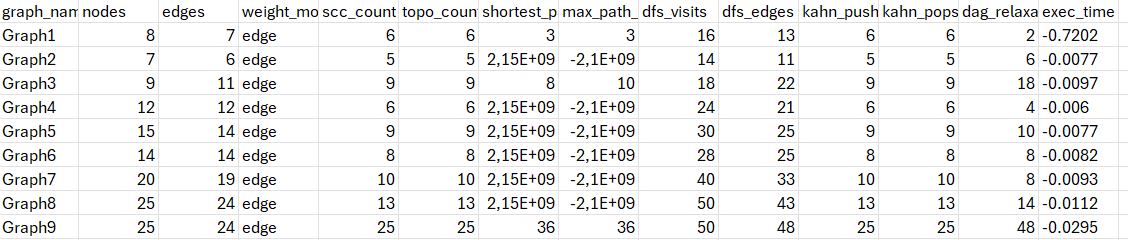
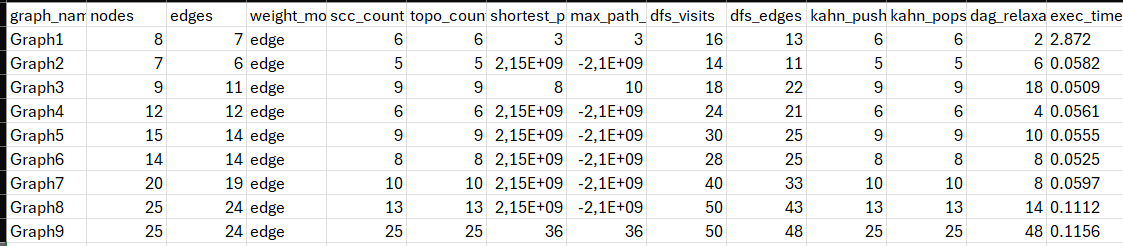
upd

diff --git a/src/main/java/com/example/Reader.java b/src/main/java/com/example/Reader.java
@@ -20,19 +20,21 @@ public class Reader {
 
             List<Graph> graphs = cont.getGraphs();
             List<GraphResult> results = new ArrayList<>();
+            List<Metrics> metricsList = new ArrayList<>();
 
             for(Graph g:graphs){
 
                 Metrics metrics = new Metrics();
+                metrics.startTimer();
                 List<List<Integer>> sccList = KosarajuAlgo.kosarajuAlgo(g.getN(), g, metrics);
                 List<List<Edge>> condGraph = ToCondGraph.toCondGraphWeighted(sccList, g);
-
                 List<Integer> topoOrder = KahnAlgo.kahnAlgo(condGraph,g,sccList, metrics);
-
                 int source = g.getSource();
                 dagP.DAGResult spResult = dagP.sp(topoOrder, condGraph, source, metrics);
                 dagP.DAGResult lpResult = dagP.lp(topoOrder, condGraph, source, metrics);
 
+                metrics.stopTimer();
+                
                 GraphResult result = new GraphResult();
                 result.sccList = sccList;
                 result.condGraph = condGraph;
@@ -41,10 +43,11 @@ public class Reader {
                 result.longestPath = lpResult;
 
                 results.add(result);
-
+                metricsList.add(metrics);
 
             }
             Writer.writeGraphResult("data/results.json", results);
+            
 
         }
         catch (Exception e) {

diff --git a/src/main/java/com/example/KosarajuAlgo.java b/src/main/java/com/example/KosarajuAlgo.java
@@ -23,8 +23,6 @@ public class KosarajuAlgo {
         boolean[] visited = new boolean[n];
         Stack<Integer> st = new Stack<>();
 
-        metrics.startTimer();
-
         for(int i = 0;i < n;i++){
             if(!visited[i]){
                 dfs1(i,graph,visited,st,metrics);
@@ -48,7 +46,6 @@ public class KosarajuAlgo {
             }
         }
 
-        metrics.stopTimer();
         return sccList;
     } 
     public static void dfs1(int v,List<List<Integer>> graph,boolean[] visited, Stack<Integer> st, Metrics metrics){

diff --git a/src/main/java/com/example/KahnAlgo.java b/src/main/java/com/example/KahnAlgo.java
@@ -12,8 +12,6 @@ public class KahnAlgo {
    
     public static List<Integer> kahnAlgo(List<List<Edge>> condGraphWeighted,Graph g,List<List<Integer>> sccList,Metrics metrics){
 
-        metrics.startTimer();
-
         int n = condGraphWeighted.size();
         int[] indeg = new int[n];
 

diff --git a/src/main/java/com/example/readme.md b/src/main/java/com/example/readme.md
@@ -1,9 +1,28 @@
 <h1>Assignment 4
 
+<h3>Data Summary
+
+- 3 type of datasets: small(6-10 nodes), meduim(10-20 nodes), large(20-50 nodes) 
+
+- Directed graphs
+
+- edge weighted model
 
 
-
-
-
+<h3>Results
 
 ![dataset](/plot.png)
+
+<h3>Analysis
+
+- SCC(Kosaraju): Time complexity O(V + E), same time complexity with Tarjan's algorithm. Kosaraju uses 2 traversal DFS. 
+Bottleneck: Large SCCs increase DFS calls
+
+- Topo Sorting(Kahn): Uses in-degree counting and queue. Fails if the graph contains cycles
+
+- DAG Paths: O(V + E), using topo order, relies on DAG.
+
+<h3>Conclusion
+Kosaraju: uses for finding SCC in directed graphs. 
+Kahn Sort: uses for build DAGs
+DAG SP/LP: uses for find shortest and longest paths in DAG, based on source 

diff --git a/target/classes/com/example/readme.md b/target/classes/com/example/readme.md
@@ -1,9 +1,28 @@
 <h1>Assignment 4
 
+<h3>Data Summary
+
+- 3 type of datasets: small(6-10 nodes), meduim(10-20 nodes), large(20-50 nodes) 
+
+- Directed graphs
+
+- edge weighted model
 
 
-
-
-
+<h3>Results
 
 ![dataset](/plot.png)
+
+<h3>Analysis
+
+- SCC(Kosaraju): Time complexity O(V + E), same time complexity with Tarjan's algorithm. Kosaraju uses 2 traversal DFS. 
+Bottleneck: Large SCCs increase DFS calls
+
+- Topo Sorting(Kahn): Uses in-degree counting and queue. Fails if the graph contains cycles
+
+- DAG Paths: O(V + E), using topo order, relies on DAG.
+
+<h3>Conclusion
+Kosaraju: uses for finding SCC in directed graphs. 
+Kahn Sort: uses for build DAGs
+DAG SP/LP: uses for find shortest and longest paths in DAG, based on source 
